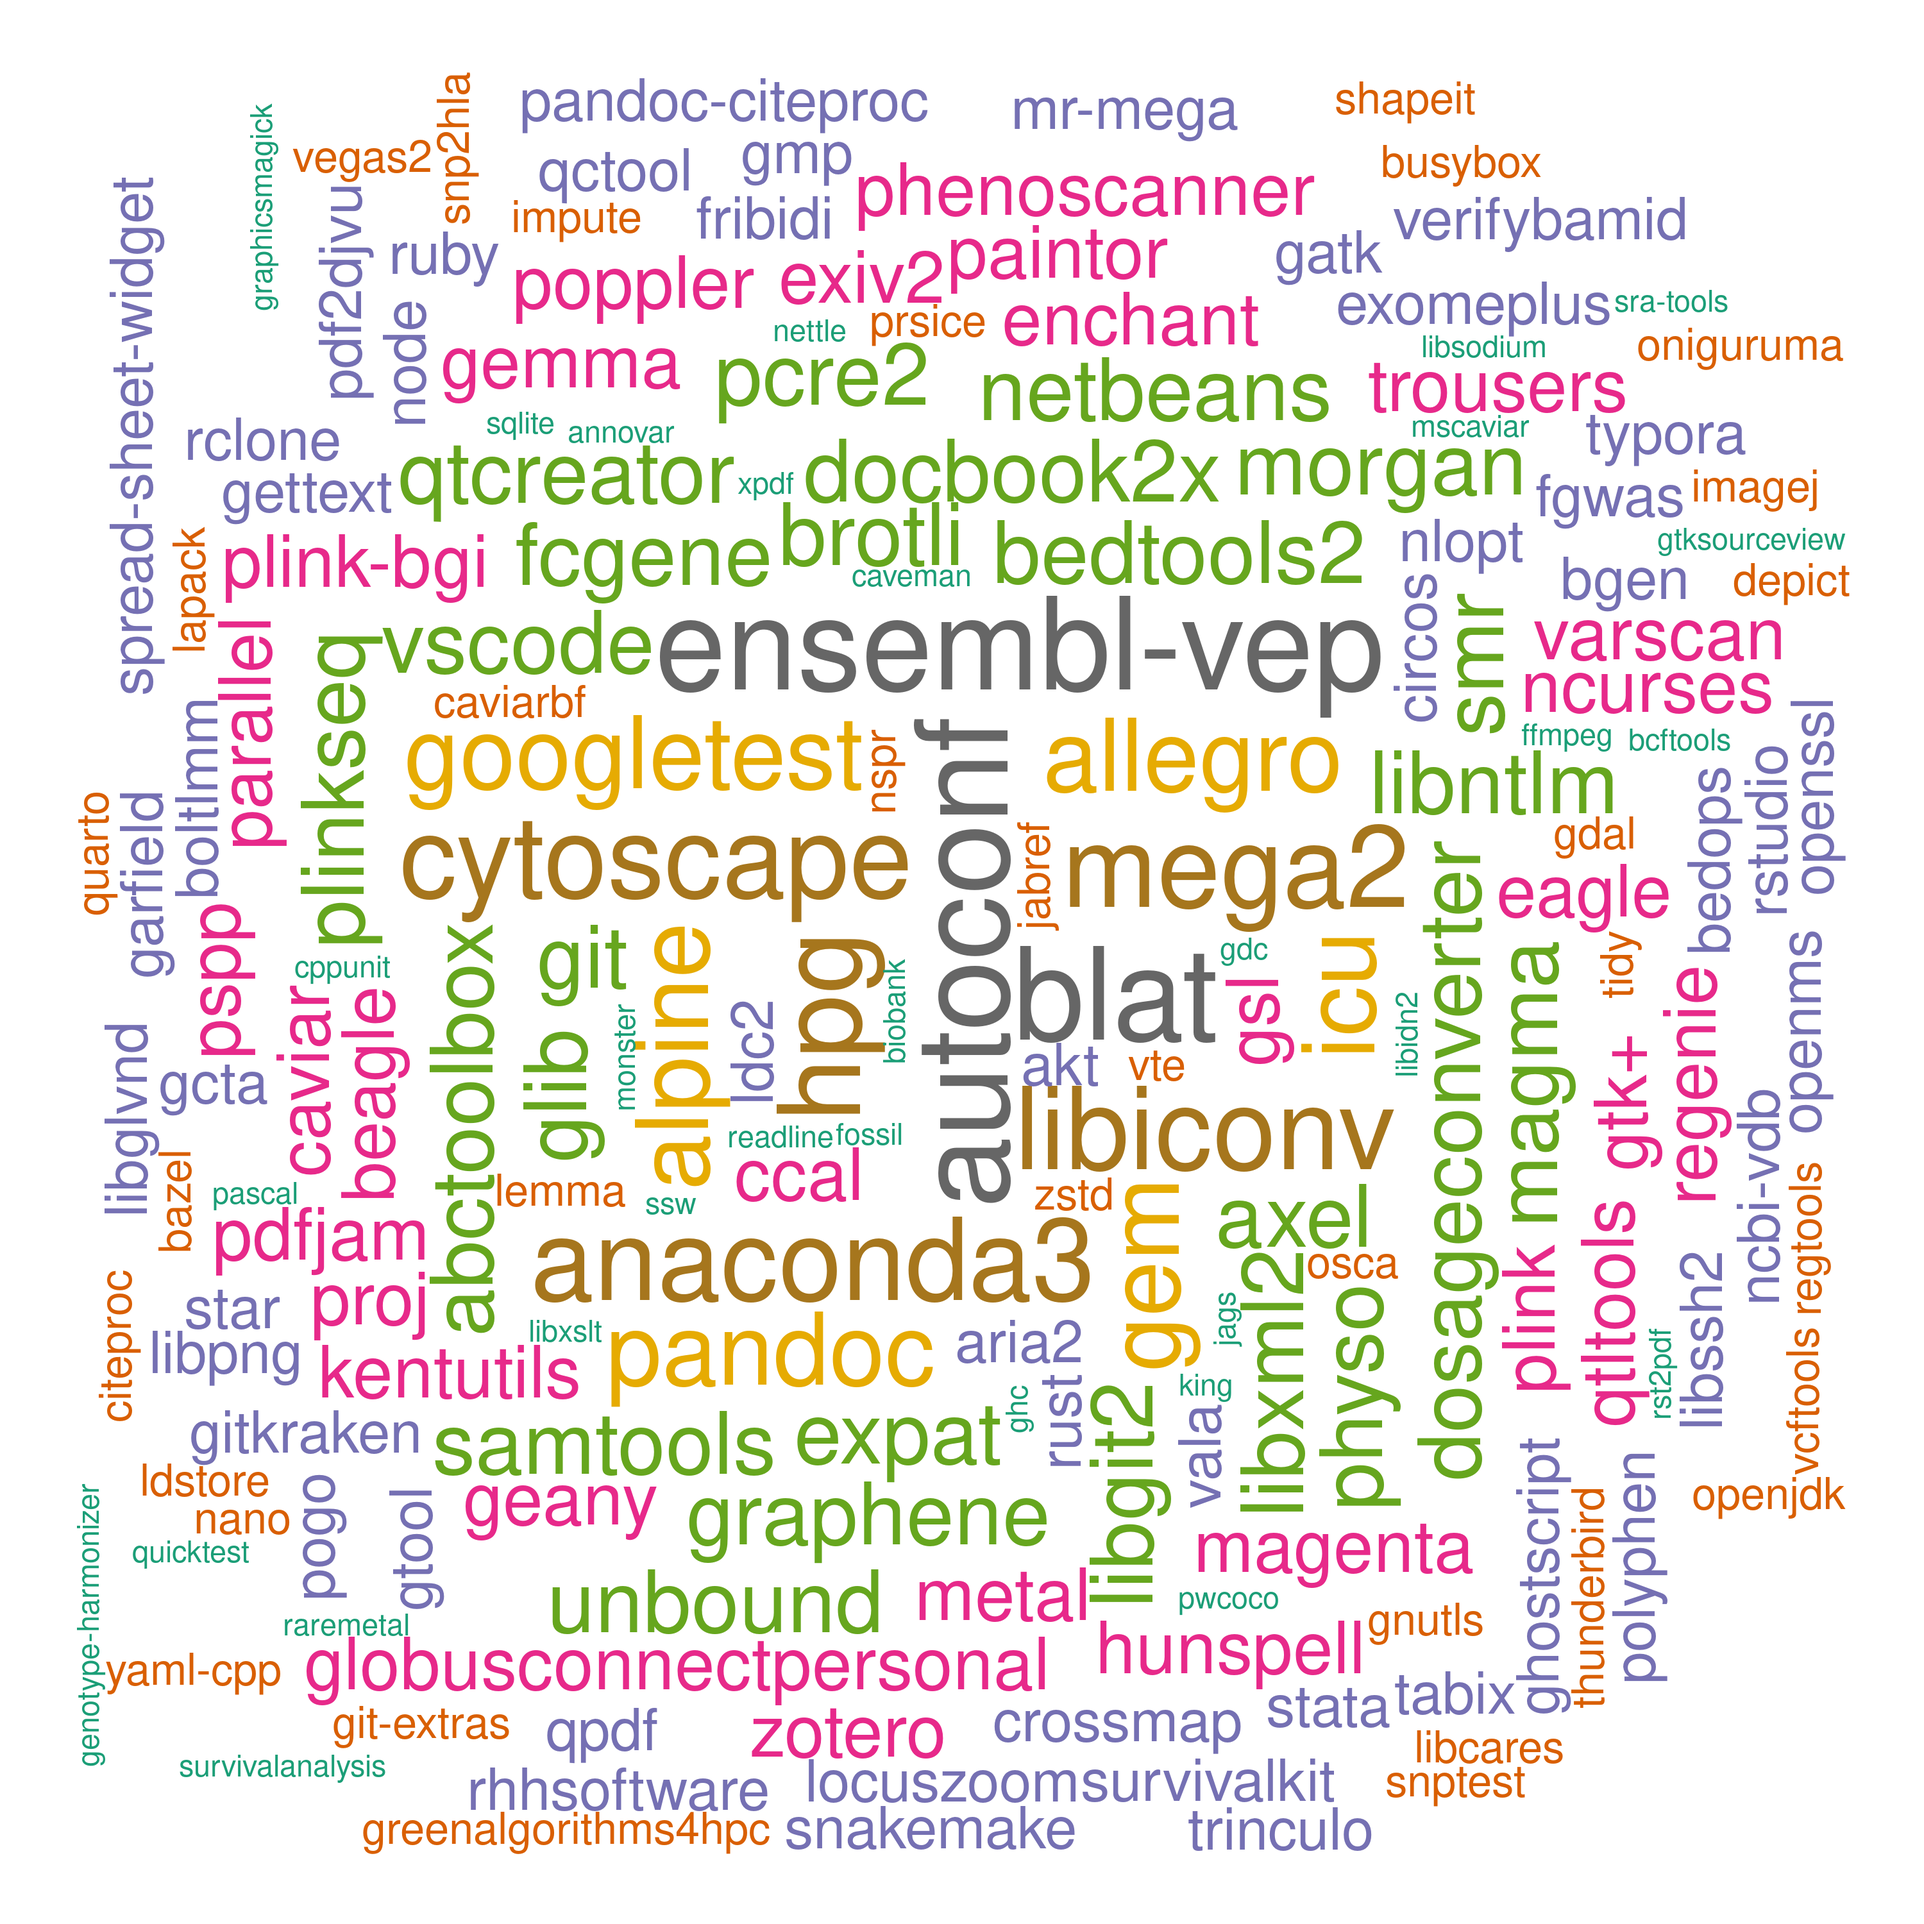
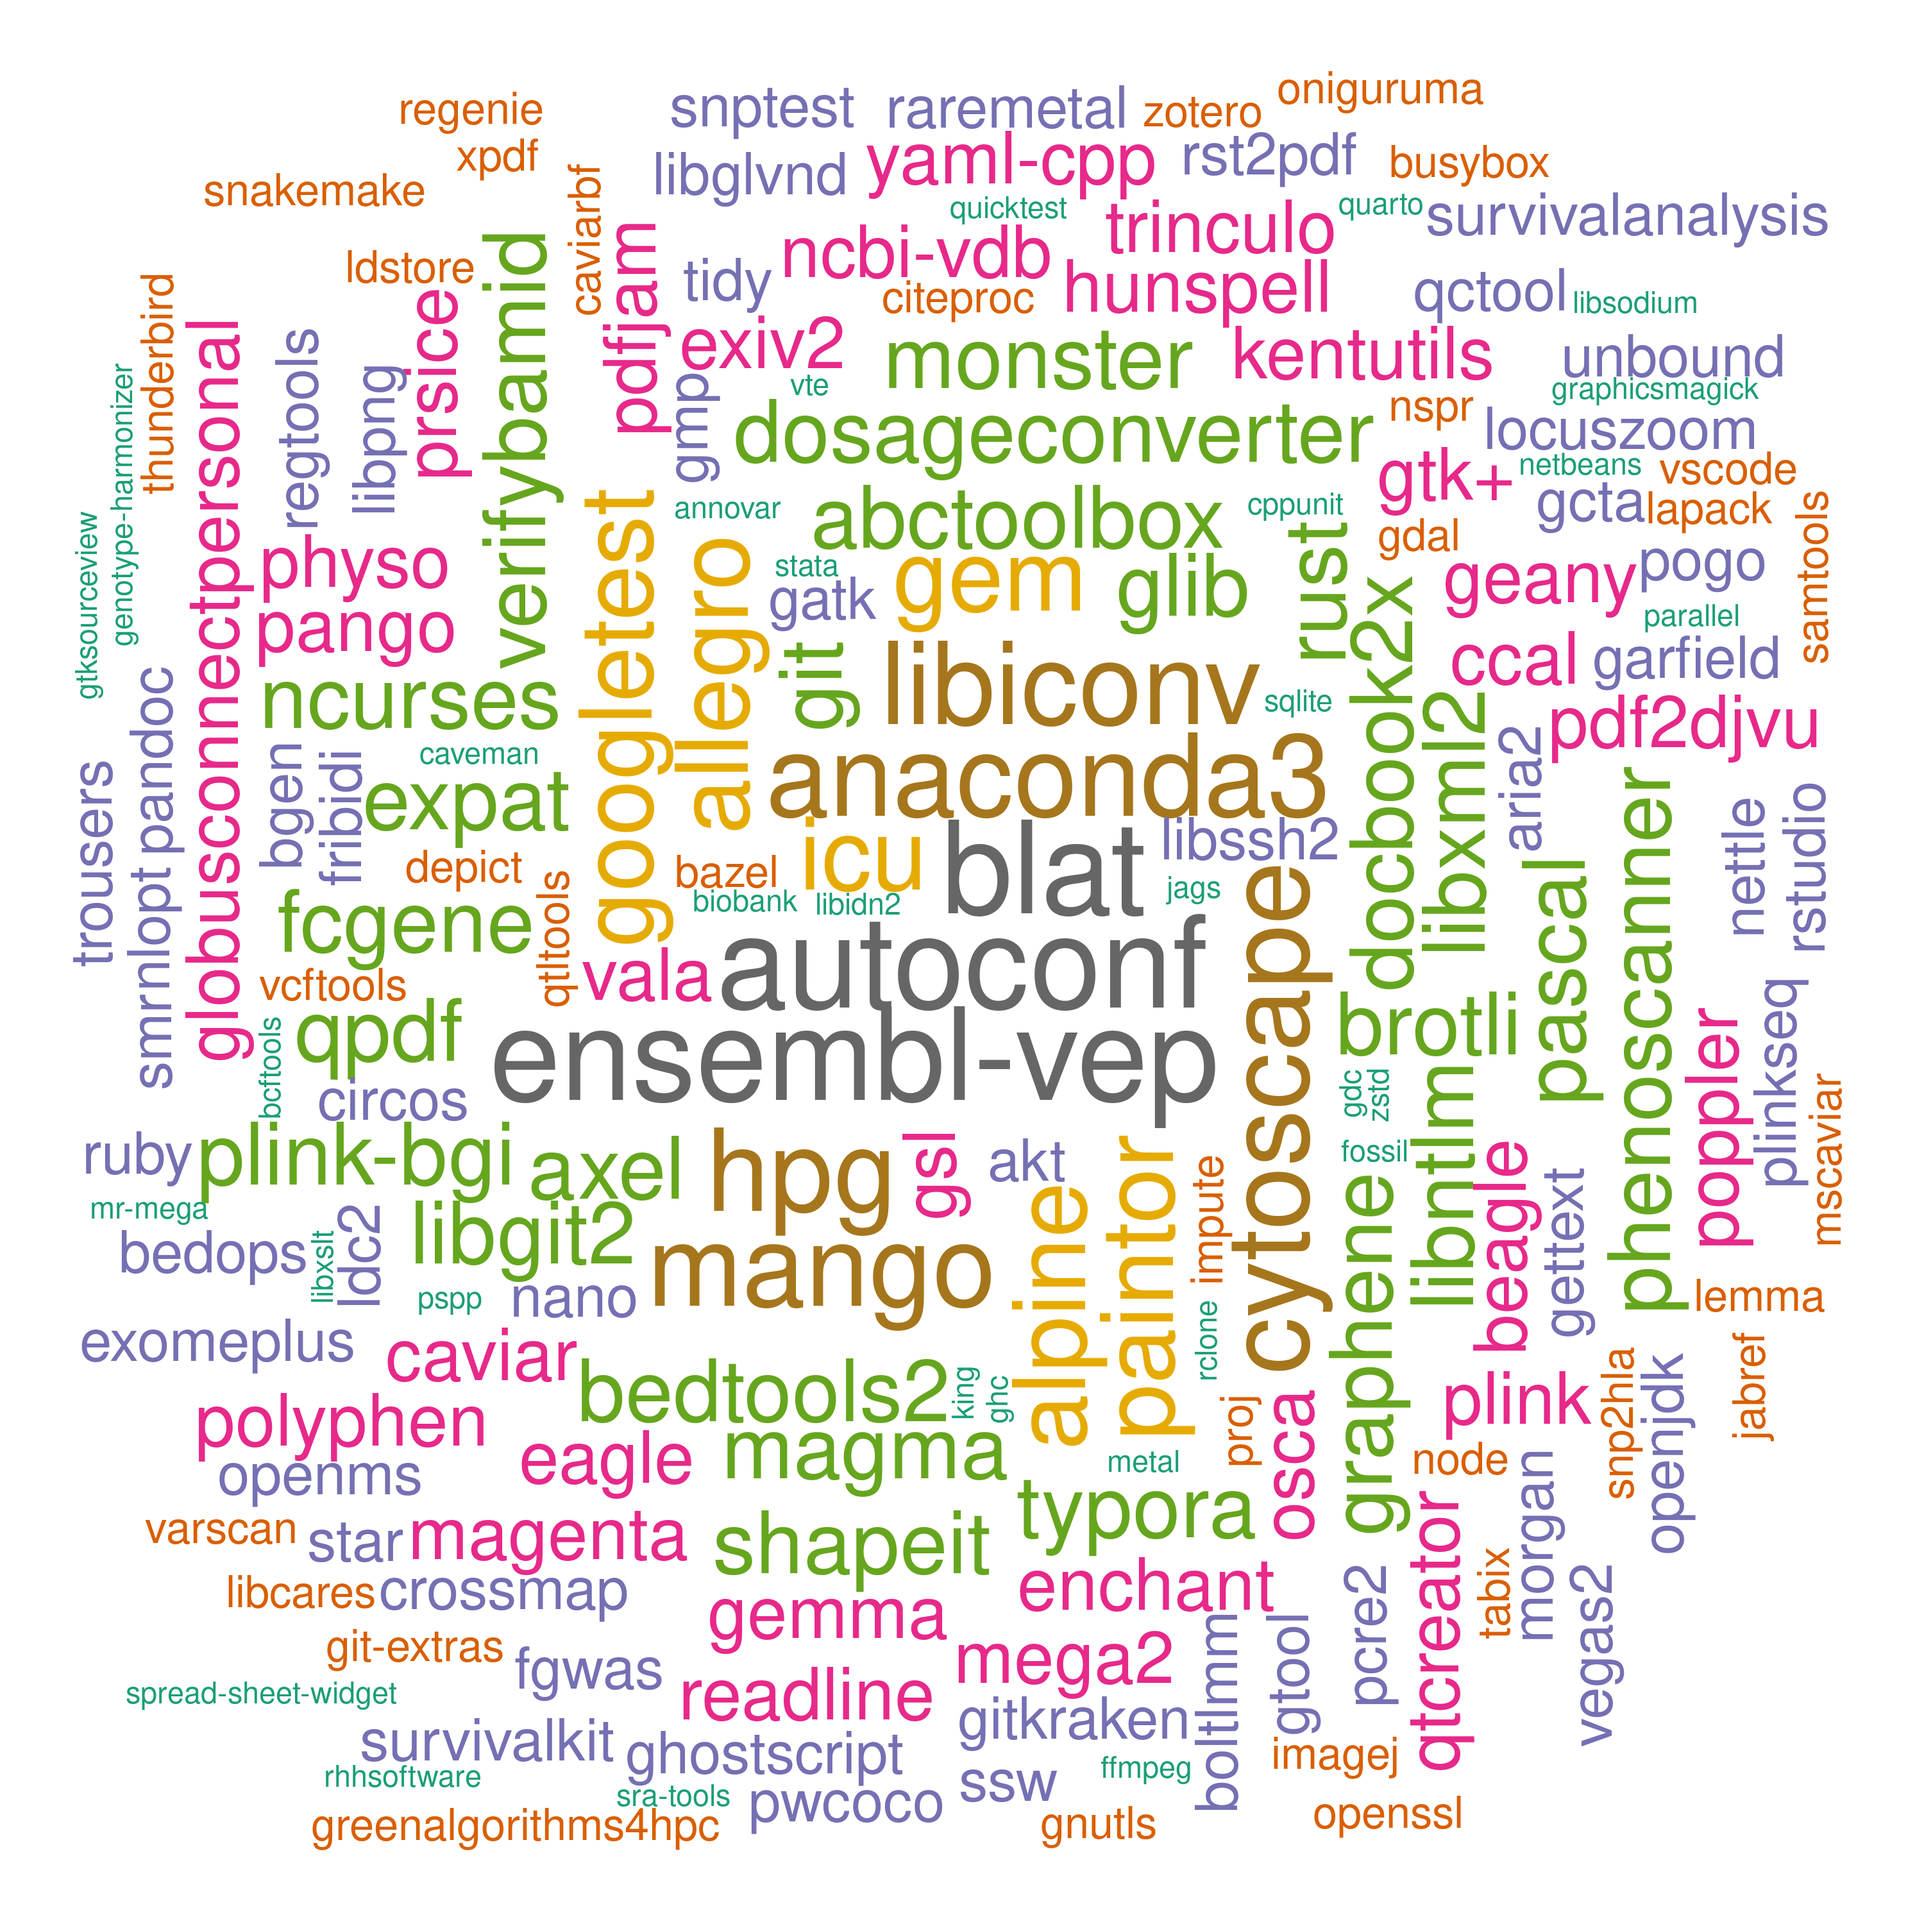
./

Changed region(s): [[0.031, 0.031, 0.961, 0.961]]

diff --git a/systems/ceuadmin.md b/systems/ceuadmin.md
@@ -8,25 +8,27 @@ The CEU software repository is here, **/usr/local/Cluster-Apps/ceuadmin/**.
 
 ![ceuadmin](ceuadmin.png)
 
-A word cloud diagram is generated from the following R script, noting that the importance of software is purely random according to $$Poisson(N,\lambda)$$ where $$N=195$$, $$\lambda=3$$.
+A word cloud diagram is generated from the following R script, noting that the importance of software is purely random according to $$Poisson(N,\lambda)$$ where $$N=196$$, $$\lambda=3$$.
 
-```r
-library(RColorBrewer)
-library(dplyr)
-library(tm)
-library(wordcloud)
-ceuadmin <- Sys.getenv("CEUADMIN")
-modules <- setdiff(dir(ceuadmin),c("doc","lib","misc","sources"))
-length(modules)
-set.seed(1234321)
-docs <- Corpus(VectorSource(modules))
-m <- TermDocumentMatrix(docs) %>%
-     as.matrix()
-words <- sort(rowSums(m),decreasing=TRUE)
-freq <- rpois(length(words),lambda=3)
-png("ceuadmin.png",res=300,height=10,width=10,units="in")
-wordcloud(names(words), freq, min.freq = 1, max.words=200, random.order=FALSE, rot.per=0.35, colors=brewer.pal(8, "Dark2"))
-dev.off()
+```bash
+Rscript -e '
+  library(RColorBrewer)
+  library(dplyr)
+  library(tm)
+  library(wordcloud)
+  ceuadmin <- Sys.getenv("CEUADMIN")
+  modules <- setdiff(dir(ceuadmin),c("doc","lib","misc","sources"))
+  length(modules)
+  set.seed(1234321)
+  docs <- Corpus(VectorSource(modules))
+  m <- TermDocumentMatrix(docs) %>%
+       as.matrix()
+  words <- sort(rowSums(m),decreasing=TRUE)
+  freq <- rpois(length(words),lambda=3)
+  png("ceuadmin.png",res=300,height=10,width=10,units="in")
+  wordcloud(names(words), freq, min.freq = 1, max.words=200, random.order=FALSE, rot.per=0.35, colors=brewer.pal(8, "Dark2"))
+  dev.off()
+'
 ```
 
 ## Entries
@@ -60,28 +62,29 @@ The current list is as follows,
  [93] "libglvnd"              "libiconv"              "libidn2"               "libntlm"
  [97] "libpng"                "libsodium"             "libssh2"               "libuv"
 [101] "libxml2"               "libxslt"               "locuszoom"             "MAGENTA"
-[105] "magma"                 "Mega2"                 "metal"                 "MONSTER"
-[109] "MORGAN"                "MR-MEGA"               "MsCAVIAR"              "nano"
-[113] "ncbi-vdb"              "ncurses"               "netbeans"              "nettle"
-[117] "NLopt"                 "node"                  "nspr"                  "oniguruma"
-[121] "openjdk"               "OpenMS"                "openssl"               "osca"
-[125] "PAINTOR"               "pandoc"                "pandoc-citeproc"       "pango"
-[129] "parallel"              "Pascal"                "pcre2"                 "pdf2djvu"
-[133] "pdfjam"                "phenoscanner"          "PhySO"                 "plink"
-[137] "plink-bgi"             "plinkseq"              "PoGo"                  "polyphen"
-[141] "poppler"               "proj"                  "PRSice"                "pspp"
-[145] "PWCoCo"                "qctool"                "qpdf"                  "qt"
-[149] "qtcreator"             "QTLtools"              "quarto"                "quicktest"
-[153] "R"                     "raremetal"             "rclone"                "readline"
-[157] "regenie"               "regtools"              "RHHsoftware"           "rst2pdf"
-[161] "rstudio"               "ruby"                  "rust"                  "samtools"
-[165] "shapeit"               "SMR"                   "snakemake"             "SNP2HLA"
-[169] "snptest"               "spread-sheet-widget"   "sqlite"                "sra-tools"
-[173] "ssw"                   "STAR"                  "stata"                 "SurvivalAnalysis"
-[177] "SurvivalKit"           "tabix"                 "thunderbird"           "tidy"
-[181] "trinculo"              "trousers"              "Typora"                "unbound"
-[185] "vala"                  "VarScan"               "vcftools"              "VEGAS2"
-[189] "verifyBamID"           "VSCode"                "vte"                   "xpdf"
+[105] "magma"                 "Mango"                 "Mega2"                 "metal"
+[109] "MONSTER"               "MORGAN"                "MR-MEGA"               "MsCAVIAR"
+[113] "nano"                  "ncbi-vdb"              "ncurses"               "netbeans"
+[117] "nettle"                "NLopt"                 "node"                  "nspr"
+[121] "oniguruma"             "openjdk"               "OpenMS"                "openssl"
+[125] "osca"                  "PAINTOR"               "pandoc"                "pandoc-citeproc"
+[129] "pango"                 "parallel"              "Pascal"                "pcre2"
+[133] "pdf2djvu"              "pdfjam"                "phenoscanner"          "PhySO"
+[137] "plink"                 "plink-bgi"             "plinkseq"              "PoGo"
+[141] "polyphen"              "poppler"               "proj"                  "PRSice"
+[145] "pspp"                  "PWCoCo"                "qctool"                "qpdf"
+[149] "qt"                    "qtcreator"             "QTLtools"              "quarto"
+[153] "quicktest"             "R"                     "raremetal"             "rclone"
+[157] "readline"              "regenie"               "regtools"              "RHHsoftware"
+[161] "rst2pdf"               "rstudio"               "ruby"                  "rust"
+[165] "samtools"              "shapeit"               "SMR"                   "snakemake"
+[169] "SNP2HLA"               "snptest"               "spread-sheet-widget"   "sqlite"
+[173] "sra-tools"             "ssw"                   "STAR"                  "stata"
+[177] "SurvivalAnalysis"      "SurvivalKit"           "tabix"                 "thunderbird"
+[181] "tidy"                  "trinculo"              "trousers"              "Typora"
+[185] "unbound"               "vala"                  "VarScan"               "vcftools"
+[189] "VEGAS2"                "verifyBamID"           "VSCode"                "vte"
+[193] "xpdf"                  "yaml-cpp"              "Zotero"                "zstd"
 ```
 
 These are wrapped up as :star::star::star: **[modules](https://modules.readthedocs.io/en/latest/index.html)** :star::star::star:.

diff --git a/systems/files/ceuadmin.md b/systems/files/ceuadmin.md
@@ -31,28 +31,29 @@ The current list is as follows[^ls],
  [93] "libglvnd"              "libiconv"              "libidn2"               "libntlm"
  [97] "libpng"                "libsodium"             "libssh2"               "libuv"
 [101] "libxml2"               "libxslt"               "locuszoom"             "MAGENTA"
-[105] "magma"                 "Mega2"                 "metal"                 "MONSTER"
-[109] "MORGAN"                "MR-MEGA"               "MsCAVIAR"              "nano"
-[113] "ncbi-vdb"              "ncurses"               "netbeans"              "nettle"
-[117] "NLopt"                 "node"                  "nspr"                  "oniguruma"
-[121] "openjdk"               "OpenMS"                "openssl"               "osca"
-[125] "PAINTOR"               "pandoc"                "pandoc-citeproc"       "pango"
-[129] "parallel"              "Pascal"                "pcre2"                 "pdf2djvu"
-[133] "pdfjam"                "phenoscanner"          "PhySO"                 "plink"
-[137] "plink-bgi"             "plinkseq"              "PoGo"                  "polyphen"
-[141] "poppler"               "proj"                  "PRSice"                "pspp"
-[145] "PWCoCo"                "qctool"                "qpdf"                  "qt"
-[149] "qtcreator"             "QTLtools"              "quarto"                "quicktest"
-[153] "R"                     "raremetal"             "rclone"                "readline"
-[157] "regenie"               "regtools"              "RHHsoftware"           "rst2pdf"
-[161] "rstudio"               "ruby"                  "rust"                  "samtools"
-[165] "shapeit"               "SMR"                   "snakemake"             "SNP2HLA"
-[169] "snptest"               "spread-sheet-widget"   "sqlite"                "sra-tools"
-[173] "ssw"                   "STAR"                  "stata"                 "SurvivalAnalysis"
-[177] "SurvivalKit"           "tabix"                 "thunderbird"           "tidy"
-[181] "trinculo"              "trousers"              "Typora"                "unbound"
-[185] "vala"                  "VarScan"               "vcftools"              "VEGAS2"
-[189] "verifyBamID"           "VSCode"                "vte"                   "xpdf"
+[105] "magma"                 "Mango"                 "Mega2"                 "metal"
+[109] "MONSTER"               "MORGAN"                "MR-MEGA"               "MsCAVIAR"
+[113] "nano"                  "ncbi-vdb"              "ncurses"               "netbeans"
+[117] "nettle"                "NLopt"                 "node"                  "nspr"
+[121] "oniguruma"             "openjdk"               "OpenMS"                "openssl"
+[125] "osca"                  "PAINTOR"               "pandoc"                "pandoc-citeproc"
+[129] "pango"                 "parallel"              "Pascal"                "pcre2"
+[133] "pdf2djvu"              "pdfjam"                "phenoscanner"          "PhySO"
+[137] "plink"                 "plink-bgi"             "plinkseq"              "PoGo"
+[141] "polyphen"              "poppler"               "proj"                  "PRSice"
+[145] "pspp"                  "PWCoCo"                "qctool"                "qpdf"
+[149] "qt"                    "qtcreator"             "QTLtools"              "quarto"
+[153] "quicktest"             "R"                     "raremetal"             "rclone"
+[157] "readline"              "regenie"               "regtools"              "RHHsoftware"
+[161] "rst2pdf"               "rstudio"               "ruby"                  "rust"
+[165] "samtools"              "shapeit"               "SMR"                   "snakemake"
+[169] "SNP2HLA"               "snptest"               "spread-sheet-widget"   "sqlite"
+[173] "sra-tools"             "ssw"                   "STAR"                  "stata"
+[177] "SurvivalAnalysis"      "SurvivalKit"           "tabix"                 "thunderbird"
+[181] "tidy"                  "trinculo"              "trousers"              "Typora"
+[185] "unbound"               "vala"                  "VarScan"               "vcftools"
+[189] "VEGAS2"                "verifyBamID"           "VSCode"                "vte"
+[193] "xpdf"                  "yaml-cpp"              "Zotero"                "zstd"
 ```
 
 Most should be available to all CSD3 users in the whole campus, e.g., for pspp, a brief description of a module is available with
@@ -300,6 +301,7 @@ They are ordered chronologically.
 | 2023-12-21  | verifyBamID/2.0.1                | Genetics[^VB2]       |
 | 2023-12-27  | regtools/1.0.0                   | Genetics[^regtools]  |
 | 2023-12-27  | VarScan/2.4.6                    | Genetics[^varscan]   |
+| 2024-01-02  | Mango/0.1.0                      | Generic              |
 
 \* CEU or approved users only.
 
